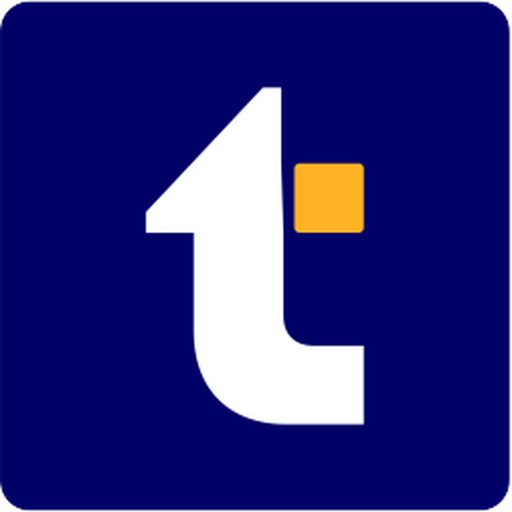
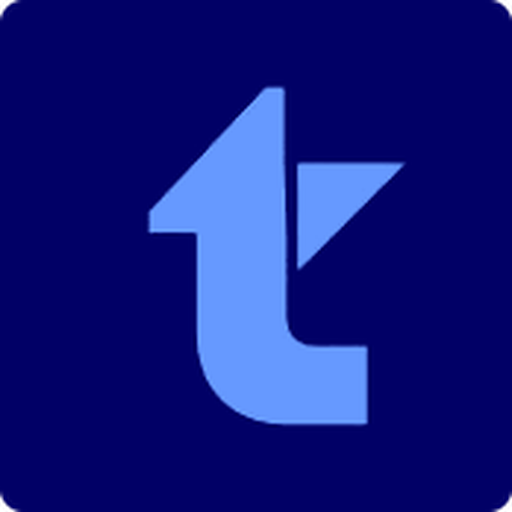
feat(brand): TEZRA's own mark on the site and in the CMS
The mark is taken straight from the artwork TEZRA supplied, in both
colourways: navy square with the light-blue "t" for white backgrounds,
white square with the navy "t" for the footer and the dark admin theme.
The placeholder it replaces had an amber square that is not in the brand.

The supplied files are cropped into the letters of the wordmark, so the
name is set in Outfit alongside the mark for now — its letterforms match
the artwork closely. Swap in the real wordmark once TEZRA send it
uncropped.

Navy measures exactly #010066, which the site was already using. The
accent is #6699FF.

Originals archived in assets-source/brand.

Changed region(s): [[0.2812, 0.1562, 0.8125, 0.8438], [0.0, 0.0, 1.0, 1.0]]

diff --git a/src/app/(payload)/custom.scss b/src/app/(payload)/custom.scss
@@ -211,7 +211,7 @@ html[data-theme='dark'] .nav__link:has(.nav__link-indicator) {
 .tz-nav-header {
   display: flex;
   align-items: center;
-  gap: 10px;
+  gap: 7px;
   height: 68px;
   flex: 0 0 auto;
   text-decoration: none;
@@ -238,30 +238,38 @@ html[data-theme='dark'] .tz-nav-header {
   border-block-end-color: var(--theme-elevation-150);
 }
 
-.tz-nav-mark {
+// The mark swaps to its reversed artwork on the dark theme, where navy on near-black disappears.
+.tz-mark {
   display: block;
   width: auto;
-  height: 30px;
 }
 
-.tz-nav-word {
-  display: block;
-  width: auto;
-  height: 19px;
-}
-
-.tz-nav-word--dark {
+.tz-mark--dark {
   display: none;
 }
 
 html[data-theme='dark'] {
-  .tz-nav-word--light {
+  .tz-mark--light {
     display: none;
   }
 
-  .tz-nav-word--dark {
+  .tz-mark--dark {
     display: block;
   }
+}
+
+.tz-nav-header .tz-mark {
+  height: 30px;
+}
+
+// Set alongside the mark until TEZRA supply the wordmark artwork uncropped.
+.tz-nav-word {
+  font-family: 'Outfit', sans-serif;
+  font-size: 29px;
+  font-weight: 600;
+  letter-spacing: -0.015em;
+  line-height: 1;
+  color: var(--theme-elevation-900);
 }
 
 // The toggler wrapper is a sibling of .template-default, so scope through the shared parent.
@@ -423,33 +431,20 @@ html[data-theme='dark'] .tz-account__logout:hover {
 .tz-logo {
   display: inline-flex;
   align-items: center;
-  gap: 14px;
+  gap: 11px;
 }
 
-.tz-logo__mark {
-  display: block;
-  width: auto;
+.tz-logo .tz-mark {
   height: 46px;
 }
 
 .tz-logo__word {
-  display: block;
-  width: auto;
-  height: 29px;
-}
-
-.tz-logo__word--dark {
-  display: none;
-}
-
-html[data-theme='dark'] {
-  .tz-logo__word--light {
-    display: none;
-  }
-
-  .tz-logo__word--dark {
-    display: block;
-  }
+  font-family: 'Outfit', sans-serif;
+  font-size: 45px;
+  font-weight: 600;
+  letter-spacing: -0.015em;
+  line-height: 1;
+  color: var(--theme-elevation-900);
 }
 
 // Sized by its container — a hardcoded width loses an edge in the breadcrumb's clipped box.

diff --git a/src/components/Navigation.tsx b/src/components/Navigation.tsx
@@ -5,7 +5,8 @@ import Link from "next/link";
 import { usePathname } from "next/navigation";
 import { Menu, X } from "lucide-react";
 import { brand, navLinks, primaryCta } from "@/content/tezra";
-import { BORDER, FONT_BODY, FONT_HEADING, NAVY } from "./shared";
+import { BrandLockup } from "./BrandLockup";
+import { BORDER, FONT_BODY, NAVY } from "./shared";
 
 /** Primary navigation. Real anchors, so crawlers can follow them. Drawer below 1100px. */
 export function Navigation() {
@@ -42,32 +43,13 @@ export function Navigation() {
       >
         <div className="pad-section" style={{ maxWidth: "1440px", margin: "0 auto", padding: "0 40px" }}>
           <div style={{ display: "flex", alignItems: "center", justifyContent: "space-between", height: "82px", gap: "24px" }}>
-            {/* Wordmark — the master brand, not a vertical (brief 1) */}
+            {/* The group lockup — the master brand, not a vertical (brief 1) */}
             <Link
               href="/"
               aria-label={`${brand.name} home`}
-              style={{
-                display: "flex",
-                flexDirection: "column",
-                alignItems: "flex-start",
-                gap: "4px",
-                textDecoration: "none",
-                flexShrink: 0,
-              }}
+              style={{ display: "flex", alignItems: "center", textDecoration: "none", flexShrink: 0 }}
             >
-              <span
-                style={{
-                  fontFamily: FONT_HEADING,
-                  fontSize: "24px",
-                  fontWeight: 800,
-                  color: NAVY,
-                  letterSpacing: "0.08em",
-                  lineHeight: 1,
-                }}
-              >
-                {brand.name}
-              </span>
-              <span style={{ display: "block", width: "100%", height: "1px", backgroundColor: "rgba(1,0,102,0.35)" }} />
+              <BrandLockup markSize={30} textSize={29} />
             </Link>
 
             {/* Desktop navigation */}

diff --git a/src/components/Footer.tsx b/src/components/Footer.tsx
@@ -1,10 +1,11 @@
 "use client";
 
 import Link from "next/link";
+import { BrandLockup } from "./BrandLockup";
 import { brand, contact, footerColumns } from "@/content/tezra";
 import type { Settings } from "@/lib/types";
 import { SocialMark, platformName } from "./SocialIcons";
-import { FONT_BODY, FONT_HEADING } from "./shared";
+import { FONT_BODY } from "./shared";
 
 /** Footer. Address, socials and Legal each appear only once TEZRA supply them. */
 export function Footer({ settings }: { settings: Settings }) {
@@ -45,10 +46,9 @@ export function Footer({ settings }: { settings: Settings }) {
         >
           {/* Master brand */}
           <div>
-            <div style={{ fontFamily: FONT_HEADING, fontSize: "26px", fontWeight: 800, letterSpacing: "0.08em", color: "#FFFFFF", marginBottom: "6px" }}>
-              {brand.name}
+            <div style={{ marginBottom: "18px" }}>
+              <BrandLockup tone="light" markSize={34} textSize={32} />
             </div>
-            <div style={{ height: "1px", backgroundColor: "rgba(255,255,255,0.25)", width: "120px", marginBottom: "20px" }} />
             <p style={{ fontFamily: FONT_BODY, fontSize: "14px", lineHeight: 1.7, color: "rgba(255,255,255,0.45)", maxWidth: "300px" }}>
               {brand.descriptor} Operating across media, news, arts and consulting.
             </p>

diff --git a/src/components/payload/NavHeader.tsx b/src/components/payload/NavHeader.tsx
@@ -3,26 +3,12 @@ import Link from "next/link";
 
 /** The sidebar lockup, in the band Payload reserves for its collapse control. */
 export const NavHeader: React.FC = () => (
-  <Link className="tz-nav-header" href="/admin" aria-label="TEZRA — dashboard">
+  <Link className="tz-nav-header" href="/admin" aria-label="Tezra — dashboard">
     {/* eslint-disable-next-line @next/next/no-img-element -- a static brand asset at a fixed size */}
-    <img className="tz-nav-mark" src="/brand/tezra-mark.png" alt="" width={252} height={253} />
+    <img className="tz-mark tz-mark--light" src="/brand/tezra-mark.png" alt="" width={174} height={174} />
     {/* eslint-disable-next-line @next/next/no-img-element -- as above */}
-    <img
-      className="tz-nav-word tz-nav-word--light"
-      src="/brand/tezra-wordmark.png"
-      alt="TEZRA"
-      width={538}
-      height={164}
-    />
-    {/* eslint-disable-next-line @next/next/no-img-element -- as above */}
-    <img
-      className="tz-nav-word tz-nav-word--dark"
-      src="/brand/tezra-wordmark-light.png"
-      alt=""
-      aria-hidden="true"
-      width={538}
-      height={164}
-    />
+    <img className="tz-mark tz-mark--dark" src="/brand/tezra-mark-light.png" alt="" aria-hidden="true" width={174} height={174} />
+    <span className="tz-nav-word">Tezra</span>
   </Link>
 );
 

diff --git a/src/components/payload/Logo.tsx b/src/components/payload/Logo.tsx
@@ -1,27 +1,13 @@
 import React from "react";
 
-/** The lockup on the admin login screen, from TEZRA's own files. */
+/** The lockup on the admin login screen. Mark from TEZRA's artwork, name set alongside it. */
 export const Logo: React.FC = () => (
   <span className="tz-logo">
     {/* eslint-disable-next-line @next/next/no-img-element -- a static brand asset at a fixed size; next/image adds nothing */}
-    <img className="tz-logo__mark" src="/brand/tezra-mark.png" alt="" width={252} height={253} />
+    <img className="tz-mark tz-mark--light" src="/brand/tezra-mark.png" alt="" width={174} height={174} />
     {/* eslint-disable-next-line @next/next/no-img-element -- as above */}
-    <img
-      className="tz-logo__word tz-logo__word--light"
-      src="/brand/tezra-wordmark.png"
-      alt="TEZRA"
-      width={538}
-      height={164}
-    />
-    {/* eslint-disable-next-line @next/next/no-img-element -- as above */}
-    <img
-      className="tz-logo__word tz-logo__word--dark"
-      src="/brand/tezra-wordmark-light.png"
-      alt=""
-      aria-hidden="true"
-      width={538}
-      height={164}
-    />
+    <img className="tz-mark tz-mark--dark" src="/brand/tezra-mark-light.png" alt="" aria-hidden="true" width={174} height={174} />
+    <span className="tz-logo__word">Tezra</span>
   </span>
 );
 

diff --git a/src/components/BrandLockup.tsx b/src/components/BrandLockup.tsx
@@ -1,0 +1,48 @@
+import Image from "next/image";
+import { FONT_BODY, NAVY } from "./tokens";
+
+/** The group lockup: TEZRA's mark beside the name. Reversed variant for dark backgrounds. */
+export function BrandLockup({
+  tone = "dark",
+  markSize = 30,
+  textSize = 29,
+}: {
+  tone?: "dark" | "light";
+  markSize?: number;
+  textSize?: number;
+}) {
+  const onDark = tone === "light";
+
+  return (
+    <span
+      style={{
+        display: "inline-flex",
+        alignItems: "center",
+        /* 0.24 of the mark — the spacing in TEZRA's own artwork. */
+        gap: `${Math.round(markSize * 0.24)}px`,
+      }}
+    >
+      <Image
+        src={onDark ? "/brand/tezra-mark-light.png" : "/brand/tezra-mark.png"}
+        alt=""
+        width={markSize}
+        height={markSize}
+        priority
+        style={{ display: "block", flexShrink: 0 }}
+      />
+      {/* Stand-in for the wordmark: the supplied artwork is cropped into the letters. */}
+      <span
+        style={{
+          fontFamily: FONT_BODY,
+          fontSize: `${textSize}px`,
+          fontWeight: 600,
+          letterSpacing: "-0.015em",
+          lineHeight: 1,
+          color: onDark ? "#FFFFFF" : NAVY,
+        }}
+      >
+        Tezra
+      </span>
+    </span>
+  );
+}

diff --git a/src/components/payload/Icon.tsx b/src/components/payload/Icon.tsx
@@ -3,7 +3,7 @@ import React from "react";
 /** The square mark. Sized by its container — the breadcrumb slot clips overflow. */
 export const Icon: React.FC = () => (
   // eslint-disable-next-line @next/next/no-img-element -- a static brand asset; next/image adds nothing at this size
-  <img className="tz-icon" src="/brand/tezra-mark.png" alt="TEZRA" width={252} height={253} />
+  <img className="tz-icon" src="/brand/tezra-mark.png" alt="Tezra" width={174} height={174} />
 );
 
 export default Icon;
